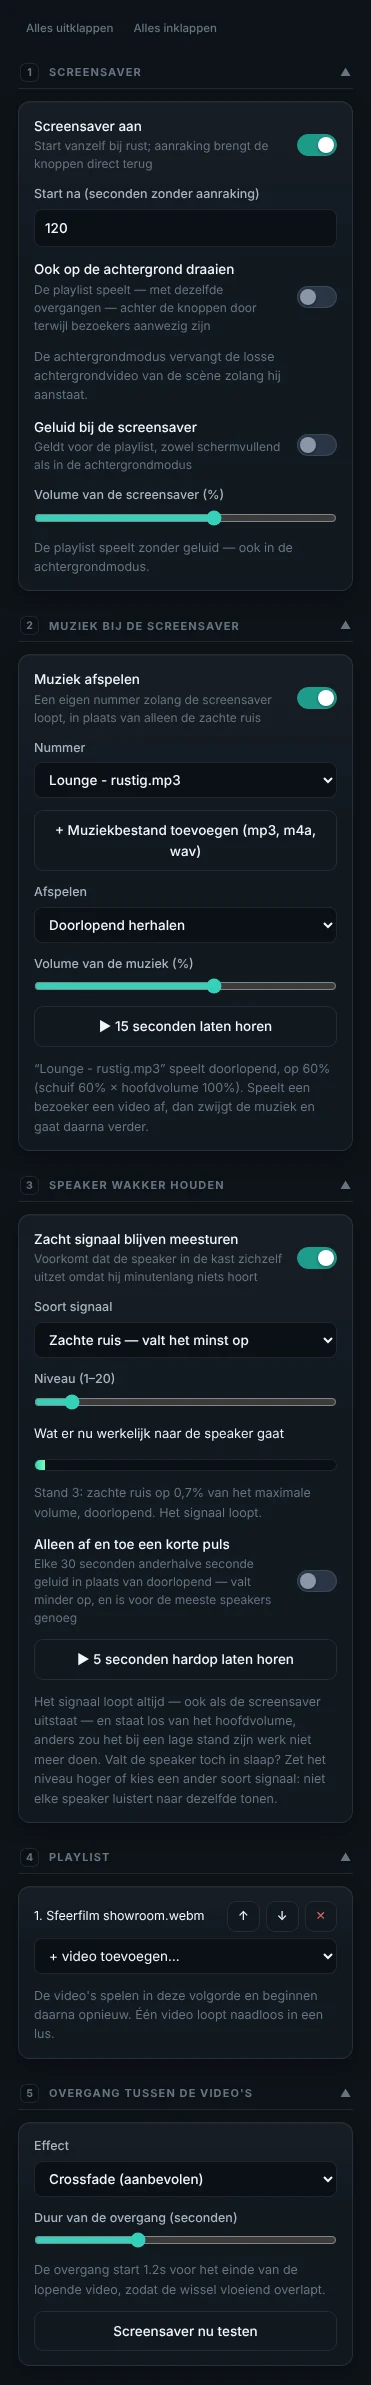
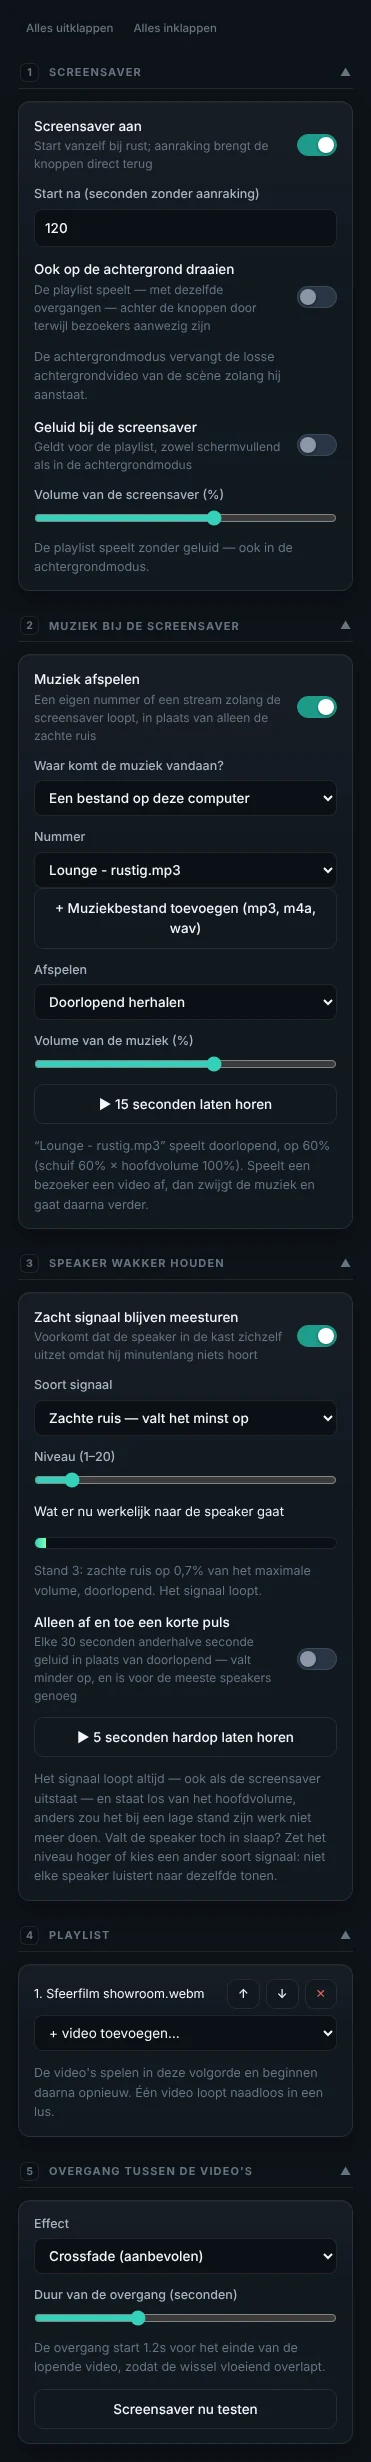
Muziek van internet: adresveld in de huisstijl, bedieningsboek bijgewerkt
- Het adresveld oogt nu als de andere velden; de bronkeuze past op een
  smal paneel.
- Bedieningsboek hoofdstuk 12: muziek van YouTube, SoundCloud of een
  stream, met wat wel en niet werkt (Spotify, browserversie, internet,
  muziekrechten), nieuwe schermafbeeldingen en een regel bij Problemen.

Claude-Session: https://claude.ai/code/session_01JbKNtV5JTsHZmL1UfMwTJN

diff --git a/docs/handleiding/index.html b/docs/handleiding/index.html
@@ -1351,7 +1351,7 @@ header.cover{padding-block:88px 8px}
 
   <div class="split">
     <figure><div class="panelshot tall">
-      <img src="img/paneel-saver.webp" alt="Het paneel Screensaver, met Muziek bij de screensaver" width="371" height="2385" loading="lazy">
+      <img src="img/paneel-saver.webp" alt="Het paneel Screensaver, met Muziek bij de screensaver" width="371" height="2462" loading="lazy">
     </div></figure>
     <div class="tw"><table>
       <thead><tr><th>Veld</th><th>Wat het doet</th><th>Waarom</th></tr></thead>
@@ -1421,10 +1421,10 @@ header.cover{padding-block:88px 8px}
     zachter zonder je verhoudingen kwijt te raken.</p></div>
 
   <h3>Muziek bij de screensaver</h3>
-  <p class="measure">In plaats van alleen de zachte ruis kan de screensaver een eigen nummer
-  laten horen. Je kiest het nummer, hoe het speelt en hoe hard. Het speelt zolang de
-  playlist in beeld is; raakt iemand het scherm aan, dan is het binnen een halve seconde
-  stil.</p>
+  <p class="measure">In plaats van alleen de zachte ruis kan de screensaver muziek laten
+  horen: een eigen bestand, of muziek van internet via YouTube, SoundCloud of een stream. Je
+  kiest wat er speelt, hoe het speelt en hoe hard. Het speelt zolang de playlist in beeld is;
+  raakt iemand het scherm aan, dan is het binnen een halve seconde stil.</p>
 
   <div class="tw"><table>
     <thead><tr><th>Veld</th><th>Wat het doet</th><th>Waarom</th></tr></thead>
@@ -1432,12 +1432,19 @@ header.cover{padding-block:88px 8px}
       <tr><td>Muziek afspelen</td><td>Aan of uit.</td>
         <td>Uit is de screensaver zoals altijd: alleen het geluid van de video's, als dat
         aanstaat.</td></tr>
-      <tr><td>Nummer</td><td>Kies een muziekbestand uit de mediabibliotheek.</td>
+      <tr><td>Waar komt de muziek vandaan?</td><td><b>Een bestand op deze computer</b> of
+        <b>Internet: YouTube, SoundCloud, stream</b>.</td>
+        <td>Een bestand werkt altijd, ook zonder internet. Internet is handig als de muziek al
+        online staat, of voor een radiozender.</td></tr>
+      <tr><td>Nummer</td><td>Bij een bestand: kies een muziekbestand uit de mediabibliotheek.</td>
         <td>Muziek staat in dezelfde bibliotheek als je video's, en gaat dus mee met
-        <b>Alles exporteren</b>.</td></tr>
+        <b>Alles exporteren</b>. Een internetadres gaat ook mee, maar de muziek zelf niet.</td></tr>
       <tr><td>+ Muziekbestand toevoegen</td><td>Een mp3, m4a, wav, ogg of flac van de
         computer of een USB-stick. Het nummer wordt meteen gekozen en de muziek gaat aan.</td>
         <td>Eén stap in plaats van eerst naar Media en dan terug.</td></tr>
+      <tr><td>Internetadres</td><td>Bij internet: plak de link. Eronder staat wat er herkend
+        is: een YouTube-video of -afspeellijst, SoundCloud, of een directe stream.</td>
+        <td>Je ziet meteen of de link bruikbaar is, nog voordat de screensaver begint.</td></tr>
       <tr><td>Afspelen</td><td><b>Doorlopend herhalen</b>: het nummer begint steeds opnieuw.<br>
         <b>Eén keer</b>: één keer, telkens als de screensaver begint.<br>
         <b>Herhalen met een pauze ertussen</b>: na afloop een pauze, dan weer van voren af aan.</td>
@@ -1456,6 +1463,39 @@ header.cover{padding-block:88px 8px}
         begint.</td></tr>
     </tbody>
   </table></div>
+
+  <figure>
+    <div class="shot" style="max-width:335px"><img src="img/muziek-url.webp" alt="Muziek bij de screensaver met een SoundCloud-link en een pauze van 10 minuten" width="335" height="649" loading="lazy"></div>
+    <figcaption>Muziek van internet: een SoundCloud-link, elke keer opnieuw na tien minuten
+    pauze.</figcaption>
+  </figure>
+
+  <div class="tw"><table>
+    <thead><tr><th>Link</th><th>Voorbeeld</th><th>Goed om te weten</th></tr></thead>
+    <tbody>
+      <tr><td>YouTube</td><td><code>https://youtu.be/…</code>,
+        <code>youtube.com/watch?v=…</code>, of een afspeellijst
+        (<code>…playlist?list=…</code>)</td>
+        <td>Alleen het geluid is te horen; het beeld blijft onzichtbaar. YouTube kan tussendoor
+        reclame laten horen. Werkt in de <b>Windows-app</b>; in de versie zonder installatie
+        weigert YouTube vaak, omdat de pagina daar een bestand op de computer is.</td></tr>
+      <tr><td>SoundCloud</td><td><code>https://soundcloud.com/artiest/nummer</code> of een
+        afspeellijst (<code>…/sets/…</code>)</td>
+        <td>Gebruik de gewone link uit de adresbalk; een korte deellink werkt niet altijd.</td></tr>
+      <tr><td>Stream</td><td>Een internetradio, of een mp3 op een website</td>
+        <td>Speelt rechtstreeks af. Een radiozender heeft geen einde: <b>Eén keer</b> en de
+        pauze doen daar niets, hij speelt gewoon door.</td></tr>
+      <tr><td>Spotify</td><td>—</td>
+        <td>Kan niet: Spotify laat buiten zijn eigen app alleen fragmenten van 30 seconden
+        horen. Het adresveld zegt dat ook.</td></tr>
+    </tbody>
+  </table></div>
+
+  <div class="note warn"><span class="t">Muziek van internet heeft internet nodig</span>
+    <p>Valt de verbinding weg, dan blijft het stil en zegt de regel onder de schuif dat er
+    geen verbinding is. Staat de box op een plek met wisselende wifi, kies dan liever een
+    bestand: dat staat op de computer zelf. Let ook op de rechten: muziek in een openbare
+    ruimte afspelen kan een licentie vragen (in Nederland via Buma/Stemra en Sena).</p></div>
 
   <div class="note"><span class="t">Hoe het samengaat met de rest</span>
     <p>Speelt een bezoeker een knopvideo, een webpagina, de avatar of de reeks, dan zwijgt
@@ -2775,6 +2815,11 @@ header.cover{padding-block:88px 8px}
         loopt nog. In een gewone browser kan het ook de eerste aanraking zijn.</td>
         <td>Kijk naar de regel onder <b>Muziek bij de screensaver</b>: die zegt wat er nu
         gebeurt. Druk op <b>15 seconden laten horen</b> om het volume te controleren.</td></tr>
+      <tr><td>Muziek van YouTube of SoundCloud speelt niet</td><td>Geen internet, een link die
+        niet (meer) bestaat, of een video waarvan de eigenaar insluiten verbiedt. YouTube in
+        de versie zonder installatie weigert vaak.</td>
+        <td>De regel onder de schuif noemt de reden. Probeer de link in een gewone browser,
+        gebruik de Windows-app, of zet het nummer als bestand op de computer.</td></tr>
       <tr><td>Ik zie nog ronde knoppen links onder</td><td>Er draait een versie van vóór 2.30.</td>
         <td>Installeer de nieuwste versie. Daarna staan ze er nooit meer.</td></tr>
       <tr><td>Bezoekers veranderen instellingen</td><td>Iemand kent het gebaar linksboven.</td>
@@ -2876,8 +2921,9 @@ header.cover{padding-block:88px 8px}
         voorste verder dan de achterste. Heeft de camera nodig.</td></tr>
       <tr><td>Speaker wakker houden</td><td>Een heel zacht signaal dat blijft lopen zodat de
         speaker zichzelf niet in stand-by zet.</td></tr>
-      <tr><td>Muziek bij de screensaver</td><td>Een eigen nummer zolang de screensaver loopt:
-        doorlopend, één keer, of steeds opnieuw na een pauze in minuten.</td></tr>
+      <tr><td>Muziek bij de screensaver</td><td>Muziek zolang de screensaver loopt, uit een
+        bestand of van YouTube, SoundCloud of een stream: doorlopend, één keer, of steeds
+        opnieuw na een pauze in minuten.</td></tr>
       <tr><td>Reeks met klikker</td><td>Genummerde video's met een wachtvideo ertussen, door de
         presentator doorgeklikt met een presenter.</td></tr>
       <tr><td>Device-key</td><td>De sleutel waarmee één box zich bij je beheerserver

diff --git a/studio/index.html b/studio/index.html
@@ -1869,8 +1869,8 @@
       </div>
       <label class="field">Waar komt de muziek vandaan?
         <select id="svMuziekBron">
-          <option value="bestand">Een muziekbestand op deze computer</option>
-          <option value="url">Een internetadres: YouTube, SoundCloud of een stream</option>
+          <option value="bestand">Een bestand op deze computer</option>
+          <option value="url">Internet: YouTube, SoundCloud, stream</option>
         </select>
       </label>
       <div id="svMuziekBestandVelden">
@@ -1882,7 +1882,7 @@
       </div>
       <div id="svMuziekUrlVelden">
         <label class="field">Internetadres
-          <input type="url" id="svMuziekUrl" inputmode="url" autocomplete="off" spellcheck="false"
+          <input type="text" id="svMuziekUrl" inputmode="url" autocomplete="off" spellcheck="false"
             placeholder="https://soundcloud.com/… of https://youtu.be/…">
         </label>
         <p class="note" id="svMuziekUrlSoort"></p>
